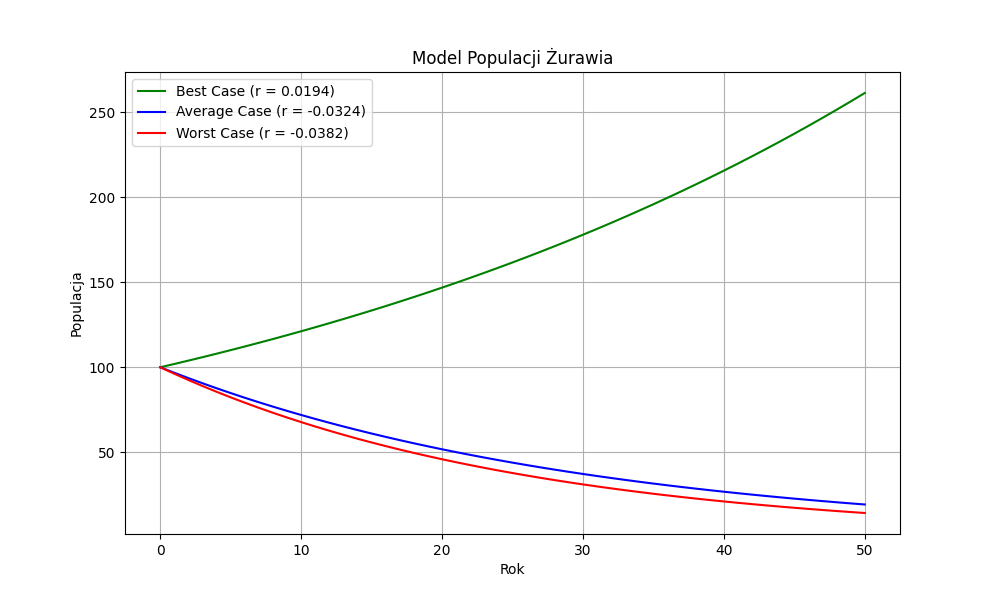
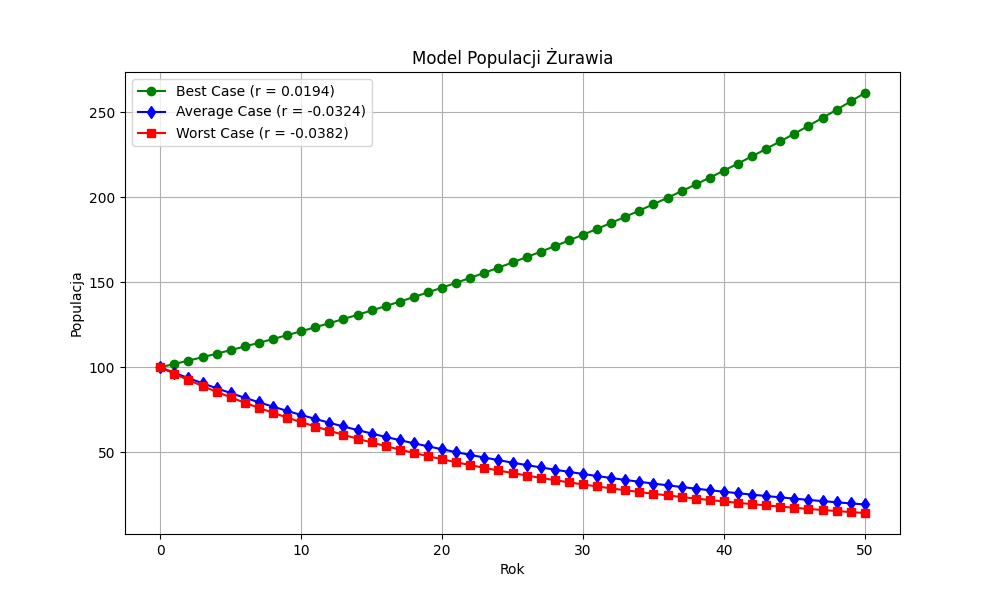
PV-2 Dodanie markerów do wykresów

diff --git a/LAB2/main.py b/LAB2/main.py
@@ -26,9 +26,9 @@ history_worst = model_populacji(poczatkowa_populacja, r_worst, lata)
 years_range = np.arange(0, lata + 1)
 
 plt.figure(figsize=(10, 6))
-plt.plot(years_range, history_best, label="Best Case (r = 0.0194)", color='g')
-plt.plot(years_range, history_average, label="Average Case (r = -0.0324)", color='b')
-plt.plot(years_range, history_worst, label="Worst Case (r = -0.0382)", color='r')
+plt.plot(years_range, history_best, label="Best Case (r = 0.0194)", color='g', marker='o')
+plt.plot(years_range, history_average, label="Average Case (r = -0.0324)", color='b', marker='d')
+plt.plot(years_range, history_worst, label="Worst Case (r = -0.0382)", color='r', marker='s')
 
 plt.title('Model Populacji Żurawia')
 plt.xlabel('Rok')
